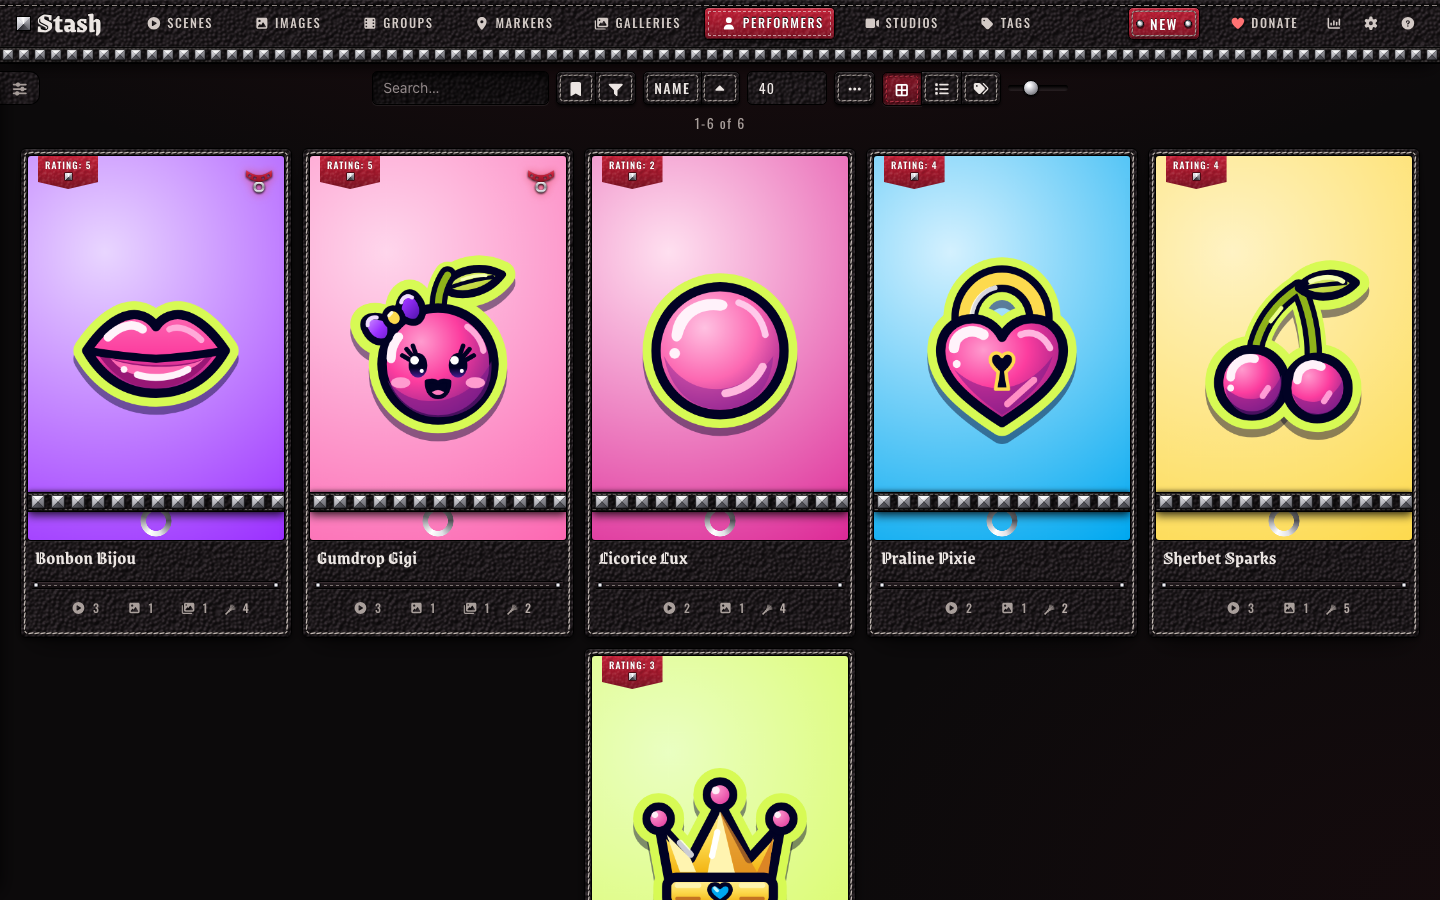
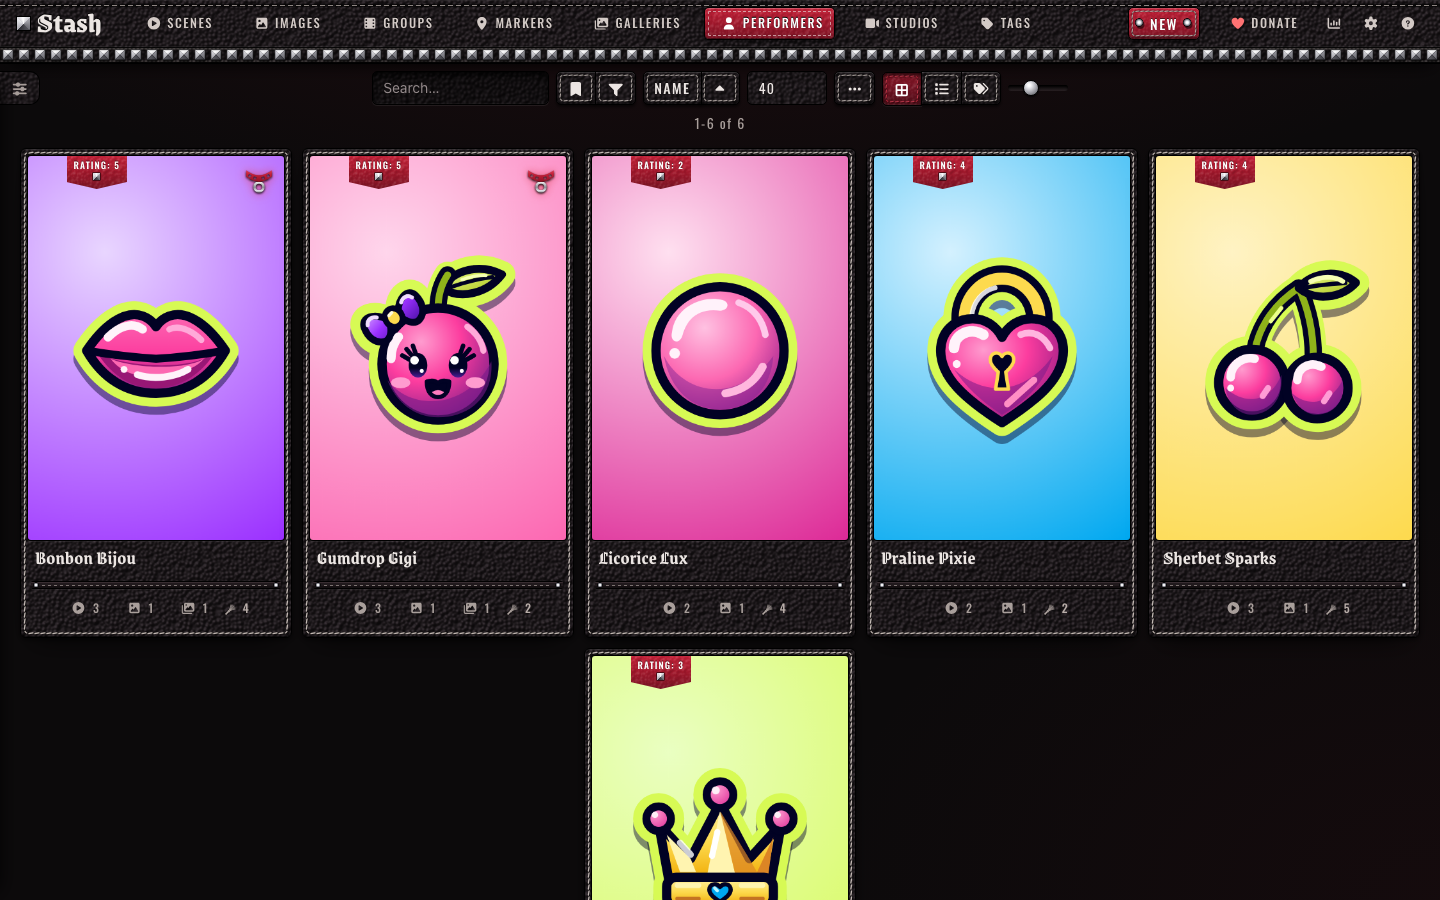
Keep the studs on the navbar and clear the card checkbox
Scene cards lose the studded strap across their top and performer cards
lose the collar and O-ring across their picture, so the pictures run
clear and the studs stay on the navbar. The rating tab now always hangs
to the right of the card's checkbox instead of only on selected cards
and touch screens. The pager's page count and its dropdown get room
inside their stitching, since Stash gives their joined sides only 5px,
and the arrow buttons lift Oswald's low-set arrows to the middle.

The README's scenes, performers, scene and phone screenshots are
retaken on a throwaway Stash v0.31.1 with the demo library.

diff --git a/plugins/leather/src/css/30-cards.css b/plugins/leather/src/css/30-cards.css
@@ -53,45 +53,6 @@
   z-index: 3;
 }
 
-/* A studded strap sewn across the top of every scene card */
-.scene-card.grid-card.card {
-  padding-top: calc(var(--leather-band) + 7px);
-}
-
-.scene-card.grid-card::before {
-  background:
-    linear-gradient(
-        100deg,
-        transparent 25%,
-        rgb(255 255 255 / 95%) 50%,
-        transparent 75%
-      ) -100%
-      0 / 34% 100% no-repeat,
-    var(--leather-studs) 0 0 / auto 100% repeat-x;
-  background-blend-mode: overlay, normal;
-  border-radius: 5px 5px 0 0;
-  content: '';
-  height: var(--leather-band);
-  left: 0;
-  pointer-events: none;
-  position: absolute;
-  right: 0;
-  top: 0;
-  z-index: 1;
-}
-
-.scene-card.grid-card::after {
-  top: calc(var(--leather-band) + 1px);
-}
-
-.scene-card.grid-card .card-controls {
-  top: calc(var(--leather-band) + 7px + 0.5rem);
-}
-
-.scene-card.grid-card:hover::before {
-  animation: leather-shine 900ms cubic-bezier(0.45, 0.05, 0.35, 1);
-}
-
 .card a {
   color: inherit;
 }
@@ -240,7 +201,6 @@
   font-family: var(--leather-font-label);
   font-size: 0.66rem;
   font-weight: 600;
-  left: 10px;
   letter-spacing: 0.12em;
   line-height: 1;
   padding: 0.4rem 0.5rem calc(0.4rem + 13px);
@@ -264,24 +224,16 @@
 }
 
 /*
- * The tab hangs where Stash puts the card's checkbox. With a mouse Stash hides
- * the tab while the card is hovered, which is when the checkbox shows. Where
- * both show, the tab moves past the checkbox: on a selected card, and always
- * on touch screens, where the checkbox never hides (and a group's drag handle
- * joins it).
+ * Stash shows the card's checkbox in the picture's top-left corner whenever a
+ * card is hovered or selected, and always on touch screens, so the tab hangs
+ * to its right (and past a group's drag handle where there is one).
  */
-.grid-card:has(.card-check:checked) .rating-banner {
-  left: 2.2rem;
+.grid-card .rating-banner {
+  left: calc(7px + 0.5rem + 1.75rem);
 }
 
-@media (hover: none), (pointer: coarse) {
-  .grid-card .rating-banner {
-    left: 2.2rem;
-  }
-
-  .grid-card:has(.card-drag-handle) .rating-banner {
-    left: 4.2rem;
-  }
+.grid-card:has(.card-drag-handle) .rating-banner {
+  left: calc(7px + 0.5rem + 3.75rem);
 }
 
 .grid-card .progress-bar {
@@ -317,43 +269,6 @@
 .card-popovers .organized .btn,
 .card-popovers .organized svg {
   color: var(--leather-success);
-}
-
-/* Performers wear a studded collar with a hanging O-ring */
-.performer-card .thumbnail-section::before {
-  background:
-    var(--leather-studs) 0 0 / auto 100% repeat-x,
-    var(--leather-tex) var(--leather-surface);
-  bottom: 28px;
-  box-shadow:
-    0 4px 8px rgb(0 0 0 / 70%),
-    0 -1px 4px rgb(0 0 0 / 50%);
-  content: '';
-  height: 20px;
-  left: 0;
-  pointer-events: none;
-  position: absolute;
-  right: 0;
-  z-index: 2;
-}
-
-.performer-card .thumbnail-section > a::after {
-  background: var(--leather-ring-face);
-  border-radius: 50%;
-  bottom: 3px;
-  content: '';
-  height: 32px;
-  left: calc(50% - 16px);
-  mask: radial-gradient(
-    circle,
-    transparent 9.6px,
-    #000 10.2px 15.2px,
-    transparent 15.8px
-  );
-  pointer-events: none;
-  position: absolute;
-  width: 32px;
-  z-index: 1;
 }
 
 .performer-card .card-section-title {

diff --git a/plugins/leather/design-system/index.html b/plugins/leather/design-system/index.html
@@ -539,10 +539,10 @@
           <h2><img src="ds/gear/paddle.webp" alt="" />Cards</h2>
           <p class="ds-lede">
             Cards are pebble-grain leather with the picture set in like a window
-            and a saddle stitch round the edge. Scene cards carry a studded
-            strap across the top, and on hover they lift, the thread turns red
-            and light runs across the studs. Performers wear a collar with a
-            hanging O-ring. The rating is a leather tab with a stud.
+            and a saddle stitch round the edge. On hover they lift and the
+            thread turns red. The studs stay on the navbar, so the pictures run
+            clear. The rating is a leather tab with a stud, hung to the right of
+            the card's checkbox.
           </p>
           <div class="ds-cards">
             <div class="scene-card grid-card card">

diff --git a/plugins/leather/src/css/95-sfw.css b/plugins/leather/src/css/95-sfw.css
@@ -40,16 +40,10 @@
 
 /*
  * Stash's SFW content mode keeps the leather and the studs and drops the
- * collars: performer cards lose their collar, the favourite is a stud that
- * turns blood red, bursts lose their sparks, and an empty list shows an O-ring
- * with no line. Stash swaps the O counter for a thumbs-up of its own, which
- * the flogger mask skips.
+ * collar: the favourite is a stud that turns blood red, bursts lose their
+ * sparks, and an empty list shows an O-ring with no line. Stash swaps the O
+ * counter for a thumbs-up of its own, which the flogger mask skips.
  */
-.sfw-content-mode .performer-card .thumbnail-section::before,
-.sfw-content-mode .performer-card .thumbnail-section > a::after {
-  content: none;
-}
-
 .sfw-content-mode .favorite-button svg {
   mask-image: url('assets/icons/glyph-stud.svg');
   mask-size: 80%;

diff --git a/plugins/leather/src/css/80-pages.css b/plugins/leather/src/css/80-pages.css
@@ -175,6 +175,27 @@ body {
   font-weight: 600;
 }
 
+/*
+ * Stash builds the page count and its dropdown as one split button, with only
+ * 5px on the sides where they join (three classes deep). Each half is its own
+ * stitched piece here, so both get room inside their stitching. Oswald sets « < > » at lowercase
+ * height, so the arrow buttons lift them to the middle of the caps.
+ */
+.pagination .page-count-container .btn.page-count {
+  padding-left: 12px;
+  padding-right: 12px;
+}
+
+.pagination .page-count-container .btn.page-count-dropdown {
+  padding-left: 10px;
+  padding-right: 10px;
+}
+
+.pagination > .btn[title] {
+  padding-bottom: 7.25px;
+  padding-top: 3.25px;
+}
+
 /* Bootstrap's pagination, where Stash uses it */
 .page-link {
   background: var(--leather-tex) var(--leather-surface);

diff --git a/plugins/leather/src/css/75-stash-box.css b/plugins/leather/src/css/75-stash-box.css
@@ -51,16 +51,6 @@
   content: none;
 }
 
-:is(.tagger-container, .PerformerTagger-performer)
-  .performer-card
-  .thumbnail-section::before,
-:is(.tagger-container, .PerformerTagger-performer)
-  .performer-card
-  .thumbnail-section
-  > a::after {
-  content: none;
-}
-
 /* Clickable results in the stash-box search modals */
 .PerformerScrapeModal-list .search-item:hover,
 .StashBoxIDSearchModal-list .search-item:hover {

diff --git a/plugins/leather/src/css/90-motion.css b/plugins/leather/src/css/90-motion.css
@@ -1,18 +1,4 @@
 /* Keyframes, burst particles and the calm switch */
-@keyframes leather-shine {
-  from {
-    background-position:
-      -100% 0,
-      0 0;
-  }
-
-  to {
-    background-position:
-      200% 0,
-      0 0;
-  }
-}
-
 @keyframes leather-lit {
   0%,
   70%,

diff --git a/plugins/leather/src/css/01-tokens.css b/plugins/leather/src/css/01-tokens.css
@@ -118,7 +118,6 @@
 
   /* Shape */
   --leather-radius: 6px;
-  --leather-band: 20px;
   --leather-nav-band: 16px;
 
   /*

diff --git a/plugins/leather/docs/design.md b/plugins/leather/docs/design.md
@@ -50,14 +50,14 @@ Glyphs (`glyph-*.svg`) are flat silhouettes on a 24-unit grid, used as CSS masks
 
 - **Navigation** is a wide leather strap with a thread line along the top and a row of studs along the bottom. The active page is a blood-red patch stitched onto it. The brand is set in blackletter beside a stud.
 - **Buttons** are dyed leather with an inner saddle stitch and a hard shadow. Primary is blood red with a nickel rivet at each end, secondary is black leather whose stitch turns red on hover, and success, warning, info and danger are bottle green, cognac, steel and bright red dyes. Pressing debosses the leather, and the chosen item of a group is pressed into oxblood. Stash's flat icon buttons (`.btn.minimal`) stay flat.
-- **Cards** are stitched leather with the picture set in like a window. On hover they lift 3px and the thread turns red. Scene cards carry a studded strap across the top, and a light runs across the studs on hover. Performers wear a collar with a hanging O-ring across the bottom of the picture.
+- **Cards** are stitched leather with the picture set in like a window. On hover they lift 3px and the thread turns red. Studs stay on the navbar: a strap or collar across the pictures crowded them, so the pictures run clear. The rating is a leather tab with a stud, hung to the right of the card's checkbox so it never covers it.
 - **Ratings** are pyramid studs over punched grommets. On cards the rating is a blood-red leather tab hanging from the top of the picture, with a stud. It moves right, past the card's checkbox, on touch screens and on selected cards, where Stash shows the checkbox without hover.
 - **The zoom button on image cards** is a 34px nickel dome in the picture's bottom-right corner. With a mouse it shows when the card is hovered or reached by keyboard; on touch screens it always shows.
 - **Tags** are small leather tags with a nickel eyelet and a stitched edge.
 - **Forms** are debossed into the leather, and focus runs a red stitch round the field. Switches are a leather strap with a nickel snap.
 - **Overlays** (menus, popovers, tooltips, toasts and modals) are stitched leather. A modal carries a strap and roller buckle under its title. A toast sets its message in blackletter beside a stud, with a dyed edge for warnings and errors.
 - **Loading** is three pyramid studs that light up in turn. **Empty lists** show the collar and a short order.
-- **Stash-box screens** (the Tagger, scrape dialogs, StashID links and Identify) are where people clear hundreds of rows, so Tagger rows are flat, untextured leather that never lifts, and cards inside the Tagger keep still and go without the collar. The chosen result takes a blood-red edge and the chosen select a red ring and stitch. In a scrape dialog the winning side's toggle is dyed blood red and its field takes the red stitch. StashID links are a nickel tag with the ID on leather.
+- **Stash-box screens** (the Tagger, scrape dialogs, StashID links and Identify) are where people clear hundreds of rows, so Tagger rows are flat, untextured leather that never lifts, and cards inside the Tagger keep still. The chosen result takes a blood-red edge and the chosen select a red ring and stitch. In a scrape dialog the winning side's toggle is dyed blood red and its field takes the red stitch. StashID links are a nickel tag with the ID on leather.
 
 ## Motion
 
@@ -69,7 +69,7 @@ Strict copy swaps a short list of Stash's own messages for short orders in her v
 
 ## SFW mode
 
-Stash's SFW content mode keeps the leather and the studs and drops the collars and the voice: strict copy is off, bursts lose their sparks, performer cards lose their collar, the favourite is a stud that turns blood red, and an empty list shows an O-ring. Stash's own SFW icon for the O counter (a thumbs-up) is left alone.
+Stash's SFW content mode keeps the leather and the studs and drops the collar and the voice: strict copy is off, bursts lose their sparks, the favourite is a stud that turns blood red, and an empty list shows an O-ring. Stash's own SFW icon for the O counter (a thumbs-up) is left alone.
 
 ## Settings
 

diff --git a/plugins/leather/README.md b/plugins/leather/README.md
@@ -2,9 +2,9 @@
 
 A black leather theme for [Stash](https://github.com/stashapp/stash), the self-hosted media organizer. Leather installs as a Stash plugin, so you switch it on, off or update it from Settings > Plugins instead of pasting CSS into the Custom CSS box.
 
-Leather dresses Stash in black pebble-grain leather with saddle stitching, nickel pyramid studs and a blood-red accent. Ratings are studs, the favourite is a collar, the O counter is a flogger, titles are set in blackletter, and a short list of Stash's messages speaks in a strict voice. Calm mode and Plain labels settings turn the motion and the copy down, and Stash's SFW mode keeps the leather and drops the collars and the voice. The [live preview](https://candyboudoir.github.io/leather/) shows every component on Stash's own markup, and the design rules are in [docs/design.md](docs/design.md). Leather 0.1.0 is built and tested on Stash v0.31.1, including the Tagger and scrape screens that a stash-box such as StashDB adds.
+Leather dresses Stash in black pebble-grain leather with saddle stitching, nickel pyramid studs and a blood-red accent. Ratings are studs, the favourite is a collar, the O counter is a flogger, titles are set in blackletter, and a short list of Stash's messages speaks in a strict voice. Calm mode and Plain labels settings turn the motion and the copy down, and Stash's SFW mode keeps the leather and drops the collar and the voice. The [live preview](https://candyboudoir.github.io/leather/) shows every component on Stash's own markup, and the design rules are in [docs/design.md](docs/design.md). Leather 0.1.0 is built and tested on Stash v0.31.1, including the Tagger and scrape screens that a stash-box such as StashDB adds.
 
-![The scenes page with Leather: stitched leather cards with a studded strap across the top and a blood-red rating tab](docs/screenshots/scenes.png)
+![The scenes page with Leather: stitched leather cards with a blood-red rating tab beside each checkbox](docs/screenshots/scenes.png)
 
 ## Install
 
@@ -33,7 +33,7 @@ Leather's settings sit with the plugin under Settings > Plugins. Both start off.
 
 ![Leather's two settings under Settings > Plugins](docs/screenshots/settings.png)
 
-Leather also follows your system's reduced-motion setting. In Stash's SFW content mode it keeps the leather and the studs, drops the strict copy and the red sparks, takes the collar off performer cards, turns the favourite into a stud, and shows an O-ring on an empty list.
+Leather also follows your system's reduced-motion setting. In Stash's SFW content mode it keeps the leather and the studs, drops the strict copy and the red sparks, turns the favourite collar into a stud, and shows an O-ring on an empty list.
 
 Leather makes no network requests beyond your own Stash server. Its fonts, Grenze Gotisch and Oswald, ship inside the plugin. The plugin is about 1.8 MB, most of it the leather texture at three screen densities; your browser downloads only the one that matches your screen.
 

diff --git a/plugins/leather/CHANGELOG.md b/plugins/leather/CHANGELOG.md
@@ -7,11 +7,11 @@ First release, for Stash v0.31.1.
 - Black pebble-grain leather with saddle stitching on cards, panels, menus, modals and toasts, on a near-black page lit blood red from the top.
 - The navbar is a studded leather strap with the active page stitched on in blood red. On a phone held upright the studs run along the top of Stash's bottom bar.
 - Pyramid studs for ratings over punched grommets, a studded collar for the favourite and a flogger for the O counter.
-- Scene cards carry a studded strap, performer cards a collar with an O-ring, and the rating is a leather tab with a stud that moves aside for the card's checkbox.
+- Cards are stitched leather with the picture set in clear; the studs stay on the navbar. The rating is a leather tab with a stud, hung to the right of the card's checkbox.
 - Dyed leather buttons with an inner stitch and nickel rivets, fields debossed into the leather with a red stitch on focus, and switches with a nickel snap.
 - The Tagger's rows stay flat and still. Scrape dialogs dye the winning toggle blood red, and StashID links are a nickel tag.
 - A loader of three studs that light up in turn, and the collar with a short order on empty lists.
 - Strict copy for a short list of Stash's messages, matched whole so titles, tags and descriptions are never touched.
 - Stud, O-ring and spark bursts on rating, favouriting and the O counter.
-- Calm mode and Plain labels settings. Stash's SFW mode keeps the leather and drops the collars and the voice.
+- Calm mode and Plain labels settings. Stash's SFW mode keeps the leather and drops the collar and the voice.
 - Grenze Gotisch and Oswald bundled in the plugin, since Stash's content security policy blocks font hosts. The leather is a seamless lossless tile at 1x, 2x and 3x, so every screen gets its own pixels.
